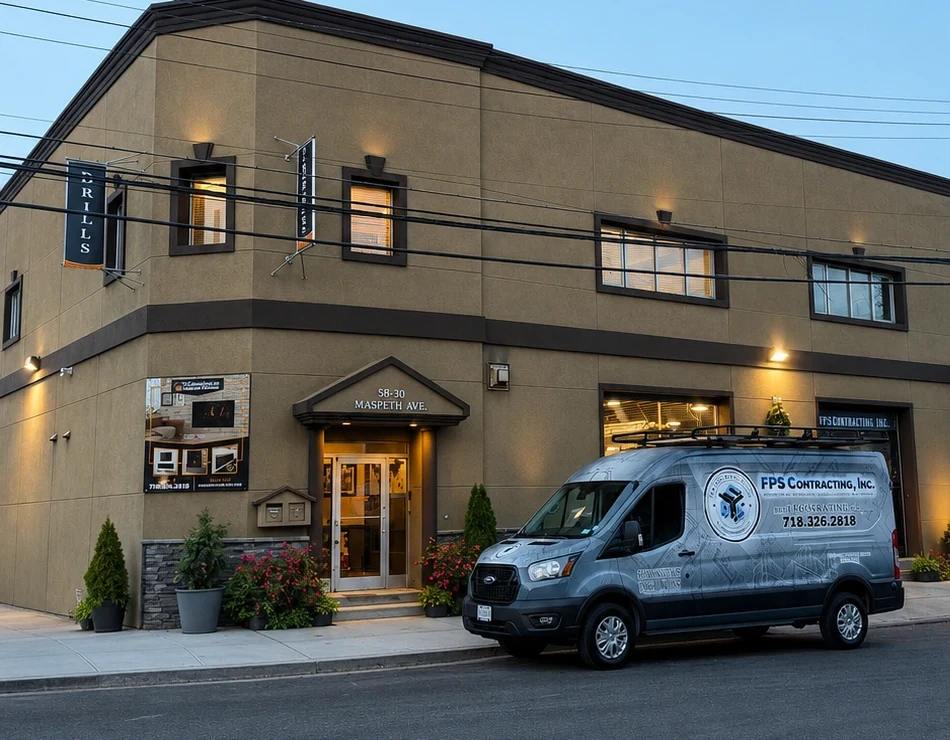
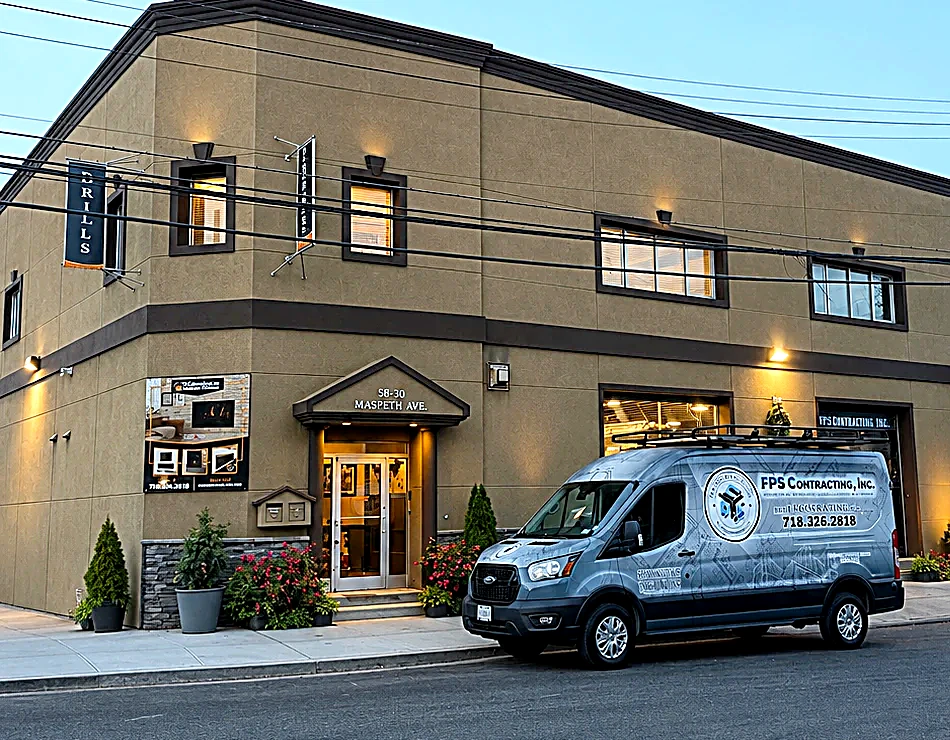
Enhance FPS HQ van/building photo; brighten About hero
The dusk photo looked dark and soft. Enhanced the source (midtone gamma
lift, +contrast, +saturation, unsharp mask) and regenerated all three
derived assets (About hero, homepage hero slide, OG share image).

About page hero: raised image opacity from .38 to .82 so the brighter
photo reads clearly, and added a bottom gradient scrim to keep the white
"About FPS" title legible.

https://claude.ai/code/session_01FRRN711QBUFPirPJp2kBYG

diff --git a/about.html b/about.html
@@ -175,7 +175,8 @@
 
   <!-- PAGE HERO -->
   <div class="page-hero">
-    <div class="page-hero-bg" style="background-image:url('images/fps-hq-dusk.webp'); background-position: center 62%;"></div>
+    <div class="page-hero-bg" style="background-image:url('images/fps-hq-dusk.webp'); background-position: center 62%; opacity: .82;"></div>
+    <div style="position:absolute; inset:0; background:linear-gradient(to top, rgba(12,20,28,.78) 0%, rgba(12,20,28,.25) 42%, rgba(12,20,28,.05) 70%);"></div>
     <div class="page-hero-content">
       <div class="page-breadcrumb"><a href="index.html">Home</a> &nbsp;/&nbsp; About Us</div>
       <h1 class="page-hero-title">About<br>FPS</h1>
